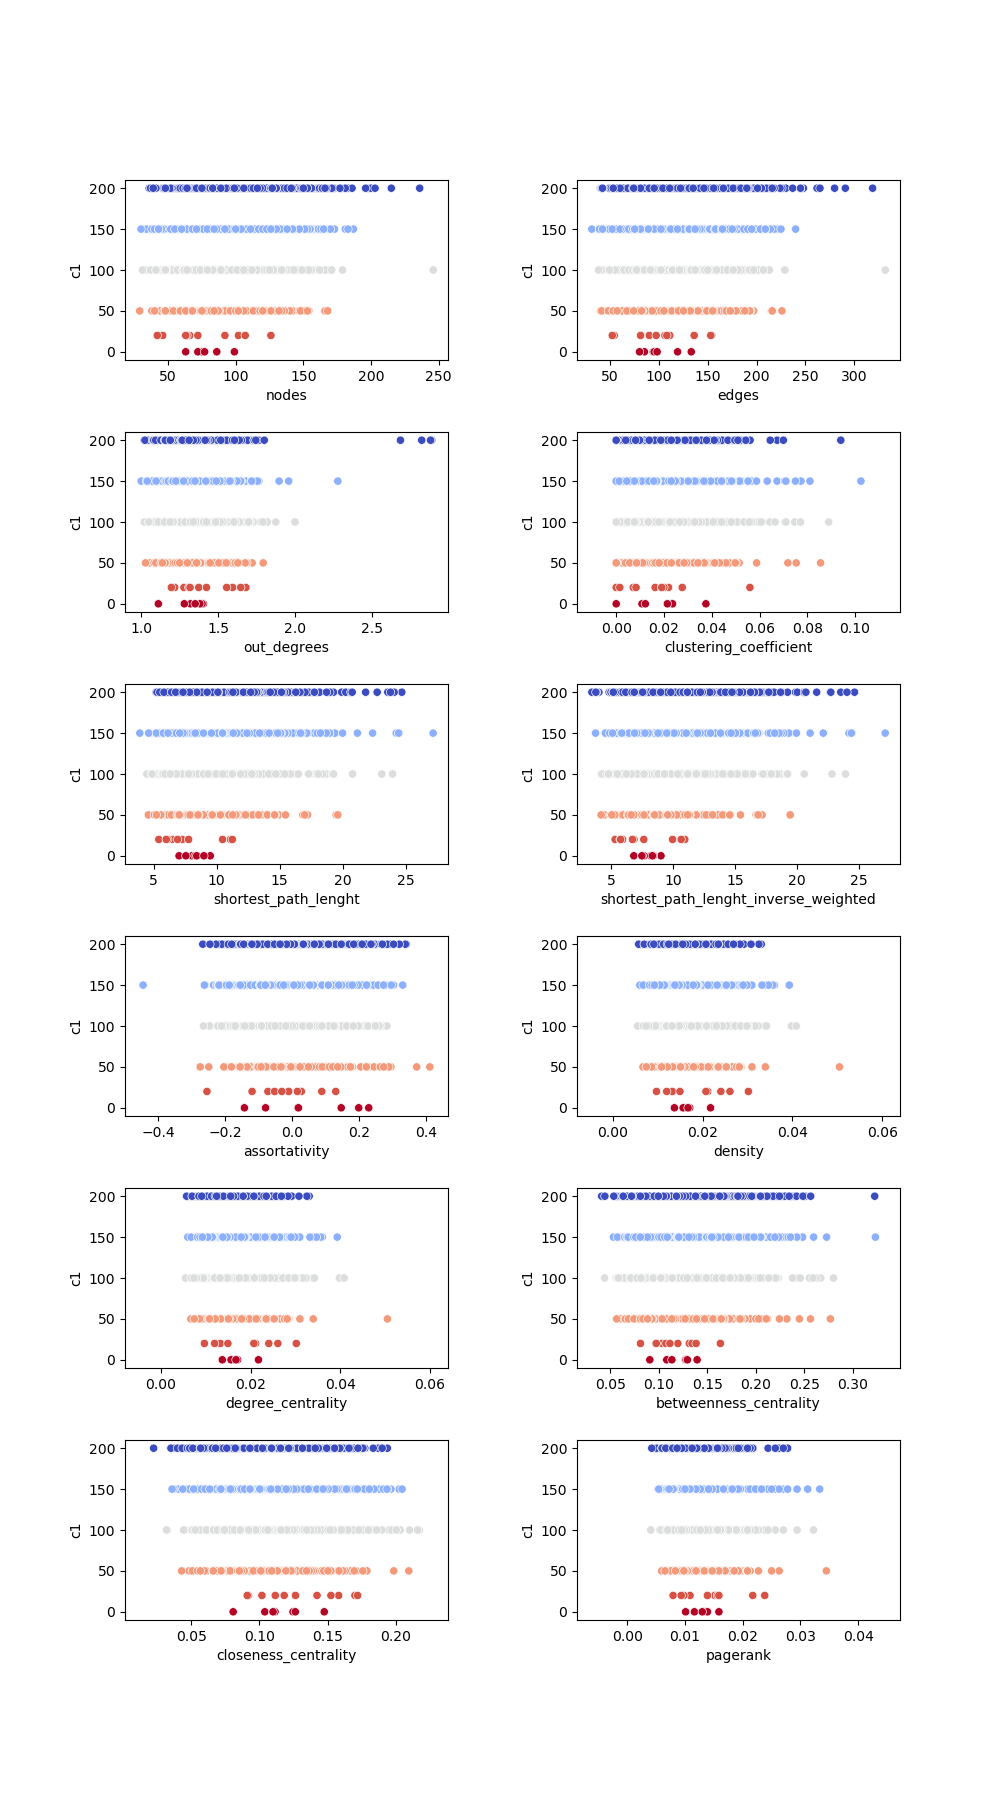
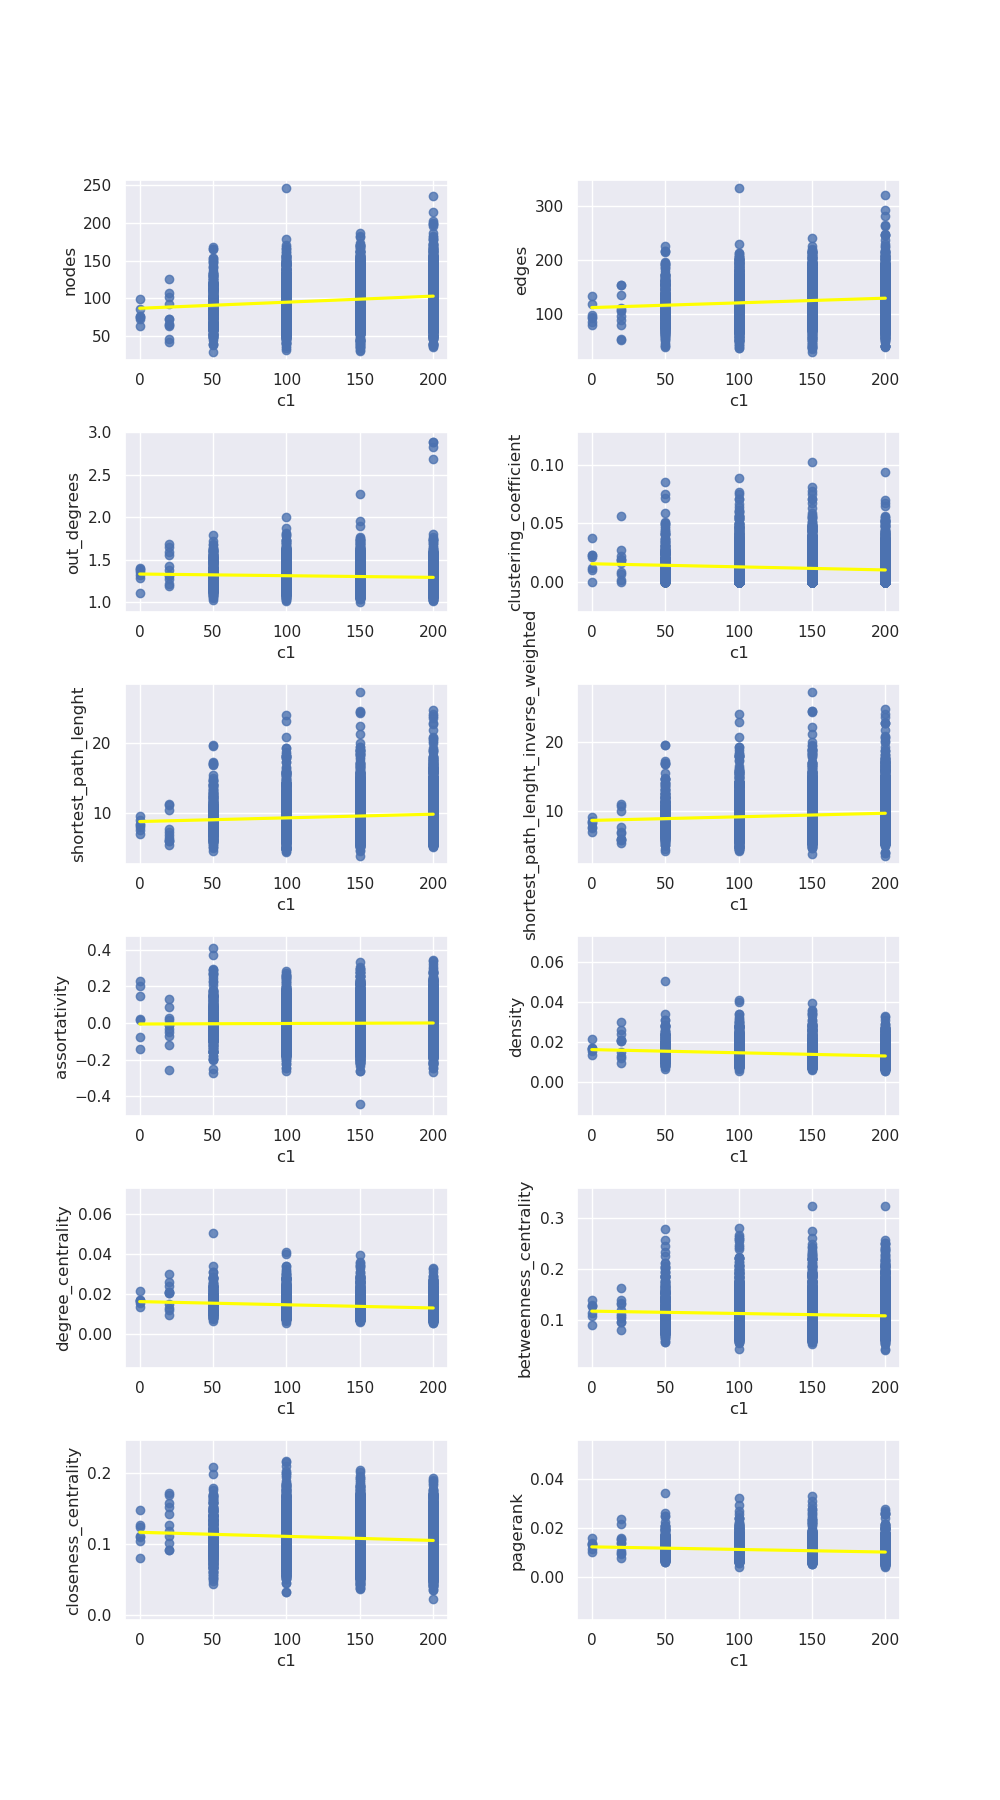
plot style

diff --git a/vizualization.py b/vizualization.py
@@ -6,8 +6,8 @@ import numpy as np
 df = pd.read_csv('data/network_data.csv')
 
 corr = df.corr()
-sns.heatmap(corr)
-# sns.heatmap(corr, annot=True, annot_kws={"fontsize":7})
+sns.heatmap(corr, annot=True, annot_kws={"fontsize":5})
+sns.set_theme(color_codes=True)
 plt.title("Matriz de Correlação")
 plt.savefig("vizualization/correlation.png")
 
@@ -21,7 +21,7 @@ for score in scores:
     
     for prop, ax in zip(properties, axs.ravel()):
 
-        sns.scatterplot(ax=ax, data=df, x=df[prop], y=df[score], hue=df[score], palette='coolwarm_r', legend = False)
-        ax.set(xlabel=prop, ylabel=score)
+        sns.regplot(ax=ax, data=df, x=df[score], y=df[prop], line_kws={"color":"yellow"})
+        ax.set(xlabel=score, ylabel=prop)
         plt.rcParams.update({'figure.max_open_warning': 0})
         fig.savefig(f"vizualization/{score}.png")
